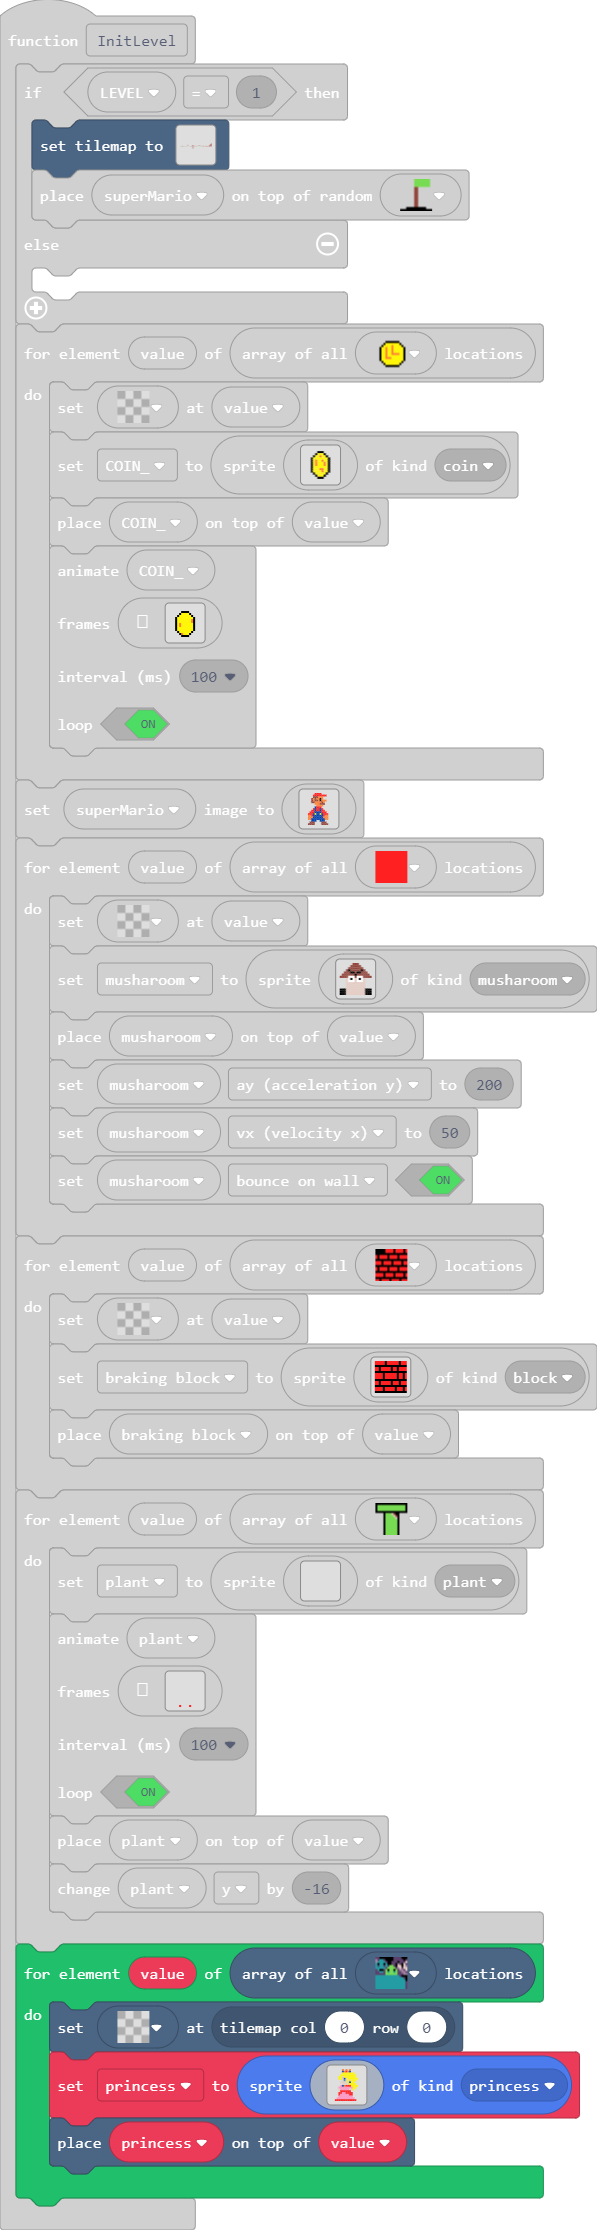
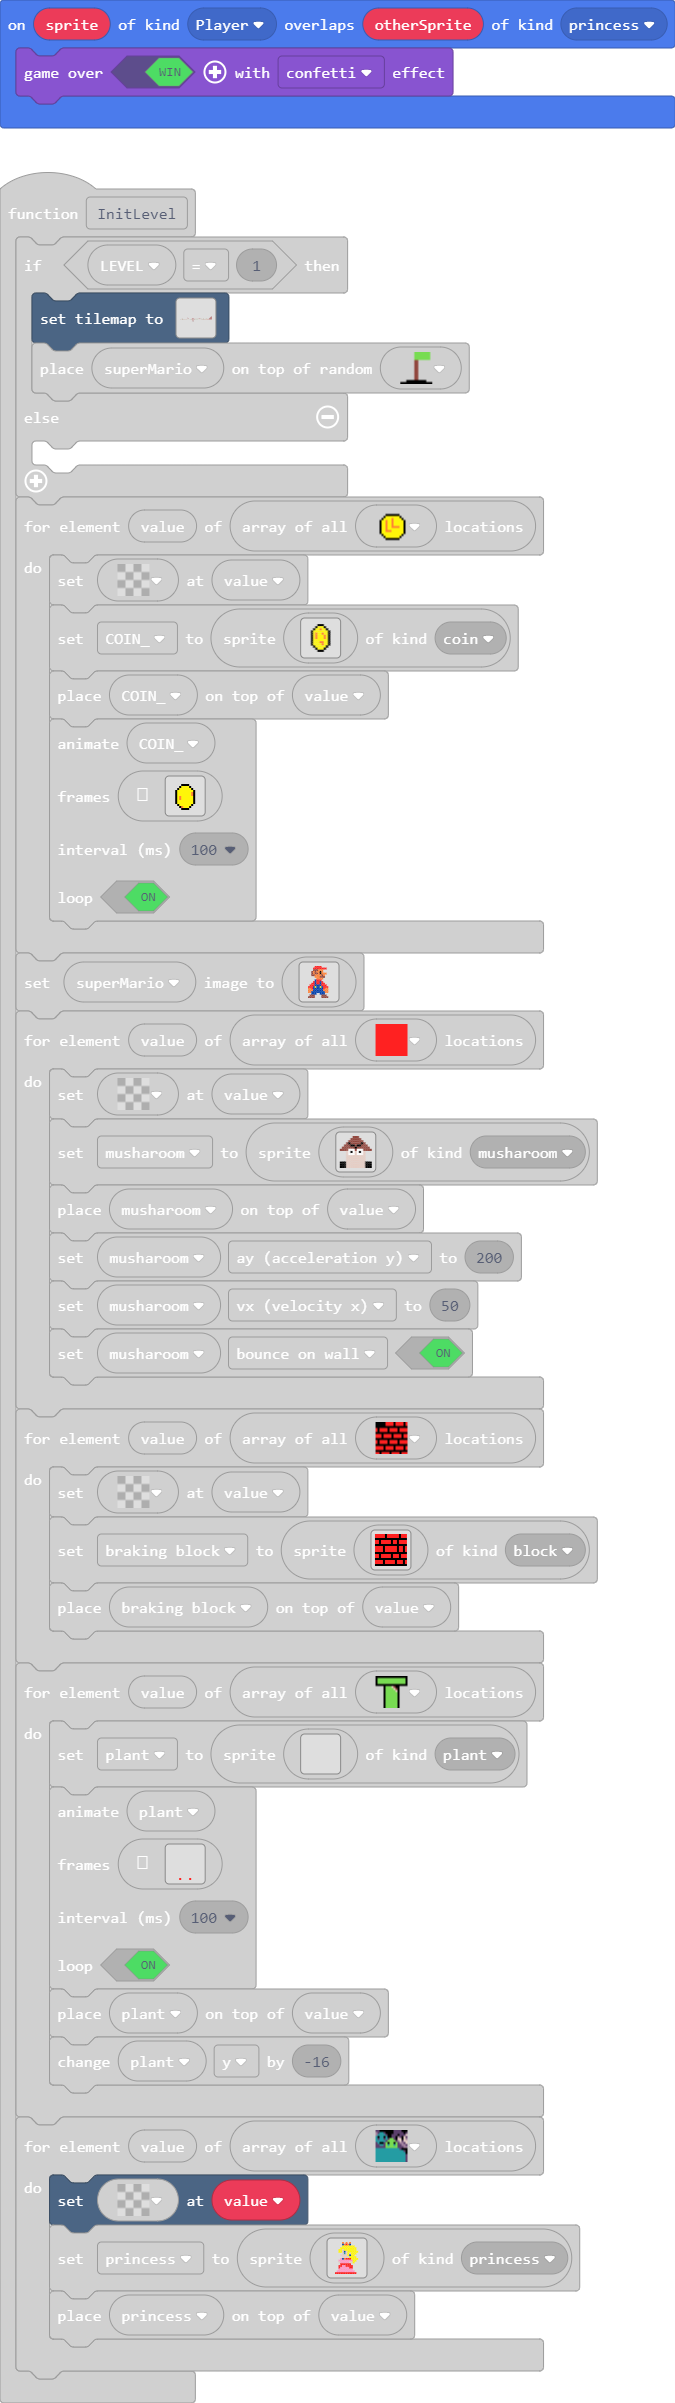
made level 1

diff --git a/main.ts b/main.ts
@@ -223,7 +223,7 @@ scene.onOverlapTile(SpriteKind.Player, myTiles.tile7, function (sprite, location
 function InitLevel () {
     if (LEVEL == 1) {
         tiles.setTilemap(tiles.createTilemap(
-            hex`640017000000000000000000000000000000000000000000000000000000000000000000000000000000000000000000000000000000000000000000000000000000000000000000000000000000000000000000000000000000000000000000000000000000000000000000000000000000000000000000000000000000000000000000000000000000000000000000000000000000000000000000000000000000000000000000000000000000000000000000000000000000000000000000000000000000000000000000000000000000000000000000000000000000000000000000000000000000000000000000000000000000000000000000000000000000000000000000000000000000000000000000000000000000000000000000000000000000000000000000000000000000000000000000000000000000000000000000000000000000000000000000000000000000000000000000000000000000000000000000000000000000000000000000000000000000000000000000000000000000000000000000000000000000000000000000000000000000000000000000000000000000000000000000000000000000000000000000000000000000000000000000000000000000000000000000000000000000000000000000000000000000000000000000000000000000000000000000000000000000000000000000000000000000000000000000000000000000000000000000000000000000000000000000000000000000000000000000000000000000000000000000000000000000000000000000000000000000000000000000000000000000000000000000000000000000000000000000000000000000000000000000000000000000000000000000000000000000000000000000000000000000000000000000000000000000000000000000000000000000000000000000000000000000000000000000000000000000000000000000000000000000000000000000000000000000000000000000000000000000000000000000000000000000000000000000000000000000000000000000000000000000000000000000000000000000000000000009000000000000000000000000000000000000000000000000000000000000000000000000000000000000000000000000000000000000000000000000000000000000000000000000000000000000000000000000000000000000000000000000000202020000000000000000000000000000000000000000000000000000000000000000000000000000000000000000000000000000000000000000000000000000000000000000000000000000000000000000000000000000000000000000000000000202020200000000000000000000000000000000000000000000000000000000000000000000000000000000000000000000000000000000000000000000000000000000000000000000000000000000000000000000000000000000000000000000000202020202000000000000000000000000000000000000000000000000020000000000000000000000000000000000000000000000000000000000000000000000000000000000000000000000000000000000000000000000000000000000000000000202020202020000000000000000000000000000000000000000000000000200000000000000000000000000000000000000000000000000000000000000000000000000000000000000000000000000000000000000000000000000000000000000000202020202020200000000000004000000000000000000000000000000000002000000000000000000000000000002000002000000000000000000000000000000000000000000000000000000000000000400000000000000000000000000000000000202020202020202000000000000000000000000000000000000000000000000060606060000000000000000000002020000020200000000000400000400000400000202020202020000040000000000000004000000000000000400000000000000000202020202020202020000000000000200040000000000000000000000000000000000000000000000000000000002020200000202020000000000000000000000000000000000000000000000000000000000020000000007000004000004000000000202020202020202020203000000000002020200040000020000050000020000000000000000000000000700000002020202000002020202000000070000070000070000000000000000000007000002000500040204000500020505050505050502000202020202020202020202010101010101010101010101010101010101010101010101010101010101010101010101010101010000010101010101010101010101010101010101010101010101010101010101010101010101010101010101010101010101010101010101010101010000000000000000000000000000000000000000000000000000000000000000000000000000000200000200000000000000000000000000000000000000000000000000000000000000000000000000000000000000000000000000000000000000000000000000000000000000000000000000000000000000000000000000000000000000000000000002000002000000000000000000000000000000000000000000000000000000000000000000000000000000000000000000000000000000000000000000000000000000000000000000000000000000000000000000000000000000000000000000000000020000020000000000000000000000000000000000000000000000000000000000000000000000000000000000000000000000000000000000000000000000000000000000000000000000000000000000000000000000000000000000000000000000000200000200000000000000000000000000000000000000000000000000000000000000000000000000000000000000000000000000000000000000000000000000000000000000000000000000000000000000000000000000000000000000000000000002080802000000000000000000000000000000000000000000000000000000000000000000000000000000000000000000000000000000000000000000`,
+            hex`640017000000000000000000000000000000000000000000000000000000000000000000000000000000000000000000000000000000000000000000000000000000000000000000000000000000000000000000000000000000000000000000000000000000000000000000000000000000000000000000000000000000000000000000000000000000000000000000000000000000000000000000000000000000000000000000000000000000000000000000000000000000000000000000000000000000000000000000000000000000000000000000000000000000000000000000000000000000000000000000000000000000000000000000000000000000000000000000000000000000000000000000000000000000000000000000000000000000000000000000000000000000000000000000000000000000000000000000000000000000000000000000000000000000000000000000000000000000000000000000000000000000000000000000000000000000000000000000000000000000000000000000000000000000000000000000000000000000000000000000000000000000000000000000000000000000000000000000000000000000000000000000000000000000000000000000000000000000000000000000000000000000000000000000000000000000000000000000000000000000000000000000000000000000000000000000000000000000000000000000000000000000000000000000000000000000000000000000000000000000000000000000000000000000000000000000000000000000000000000000000000000000000000000000000000000000000000000000000000000000000000000000000000000000000000000000000000000000000000000000000000000000000000000000000000000000000000000000000000000000000000000000000000000000000000000000000000000000000000000000000000000000000000000000000000000000000000000000000000000000000000000000000000000000000000000000000000000000000000000000000000000000000000000000000000000000000000000009000000000000000000000000000000000000000000000000000000000000000000000000000000000000000000000000000000000000000000000000000000000000000000000000000000000000000000000000000000000000000000000000000202020000000000000000000000000000000000000000000000000000000000000000000000000000000000000000000000000000000000000000000000000000000000000000000000000000000000000000000000000000000000000000000000000202020200000000000000000000000000000000000000000000000000000000000000000000000000000000000000000000000000000000000000000000000000000000000000000000000000000000000000000000000000000000000000000000000202020202000000000000000000000000000000000000000000000000020000000000000000000000000000000000000000000000000000000000000000000000000000000000000000000000000000000000000000000000000000000000000000000202020202020000000000000000000000000000000000000000000000000200000000000000000000000000000000000000000000000000000000000000000000000000000000000000000000000000000000000000000000000000000000000000000202020202020200000000000004000000000000000000000000000000000002000000000000000000000000000002000002000000000000000000000000000000000000000000000000000000000000000400000000000000000000000000000000000202020202020202000000000000000000000000000000000000000000000000060606060000000000000000000002020000020200000000000400000400000400000202020202020000040000000000000004000000000000000400000000000000000202020202020202020000000000000200040000000000000000000000000000000000000000000000000000000002020200000202020000000000000000000000000000000000000000000000000000000000020000000007000004000004000000000202020202020202020203000000000002020200040000020000050000020000000000000000000000000700000002020202000002020202000000070000070000070000000000000000000007000002000500040204000500020005000500050502000202020202020202020202010101010101010101010101010101010101010101010101010101010101010101010101010101010000010101010101010101010101010101010101010101010101010101010101010101010101010101010101010101010101010101010101010101010000000000000000000000000000000000000000000000000000000000000000000000000000000200000200000000000000000000000000000000000000000000000000000000000000000000000000000000000000000000000000000000000000000000000000000000000000000000000000000000000000000000000000000000000000000000000002000002000000000000000000000000000000000000000000000000000000000000000000000000000000000000000000000000000000000000000000000000000000000000000000000000000000000000000000000000000000000000000000000000020000020000000000000000000000000000000000000000000000000000000000000000000000000000000000000000000000000000000000000000000000000000000000000000000000000000000000000000000000000000000000000000000000000200000200000000000000000000000000000000000000000000000000000000000000000000000000000000000000000000000000000000000000000000000000000000000000000000000000000000000000000000000000000000000000000000000002080802000000000000000000000000000000000000000000000000000000000000000000000000000000000000000000000000000000000000000000`,
             img`
 . . . . . . . . . . . . . . . . . . . . . . . . . . . . . . . . . . . . . . . . . . . . . . . . . . . . . . . . . . . . . . . . . . . . . . . . . . . . . . . . . . . . . . . . . . . . . . . . . . . . 
 . . . . . . . . . . . . . . . . . . . . . . . . . . . . . . . . . . . . . . . . . . . . . . . . . . . . . . . . . . . . . . . . . . . . . . . . . . . . . . . . . . . . . . . . . . . . . . . . . . . . 
@@ -1314,7 +1314,7 @@ f f f f f f f f f f f f f f f f
         plant.y += -16
     }
     for (let value of tiles.getTilesByType(sprites.builtin.crowd7)) {
-        tiles.setTileAt(tiles.getTileLocation(0, 0), myTiles.tile0)
+        tiles.setTileAt(value, myTiles.tile0)
         princess = sprites.create(img`
 . . . . 4 . 4 . 4 . . . . 
 . . . . 8 4 2 4 8 . . . . 
@@ -1338,6 +1338,9 @@ f f f f f f f f f f f f f f f f
         tiles.placeOnTile(princess, value)
     }
 }
+sprites.onOverlap(SpriteKind.Player, SpriteKind.princess, function (sprite, otherSprite) {
+    game.over(true, effects.confetti)
+})
 sprites.onOverlap(SpriteKind.Player, SpriteKind.plant, function (sprite, otherSprite) {
     marioDie()
     otherSprite.destroy()
